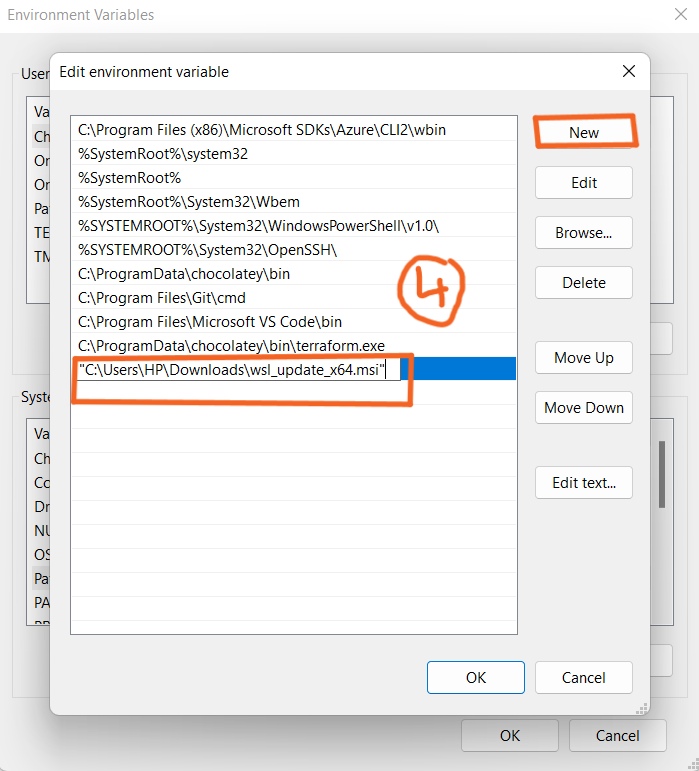
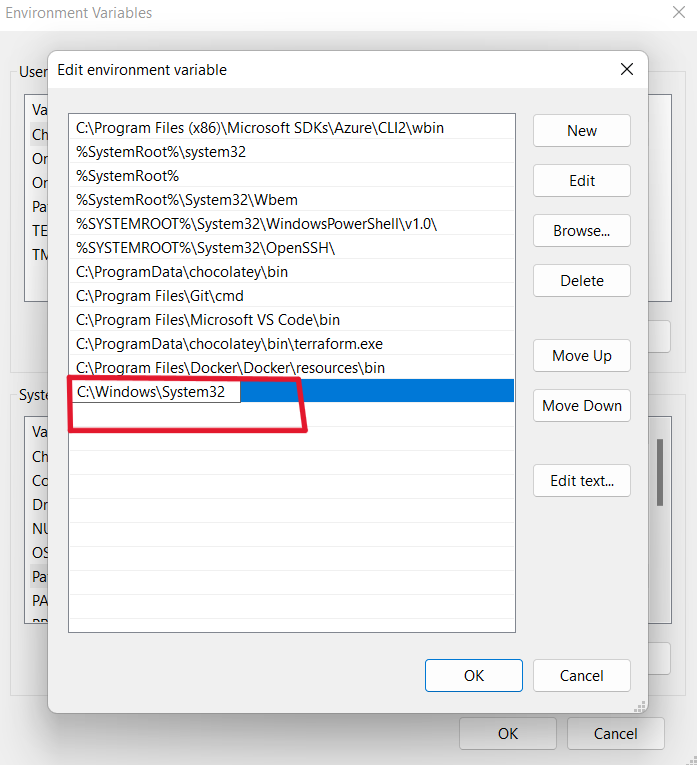
docker

diff --git a/utils/windows/install/install-docker.md b/utils/windows/install/install-docker.md
@@ -37,9 +37,13 @@ This is the help page to install docker in windows machine
 
 - **Add WSL path to env variable i.e. PATH**
 
-1. **Go to the file location of **wsl_update_x64** and copy the path of it .**
+1. **Open WSL file location**
 
 ![WSL check](images/location.png)
+
+***
+![WSL check](images/path.png)
+
 
 2. **Add the path to System Environment variables .**
 
